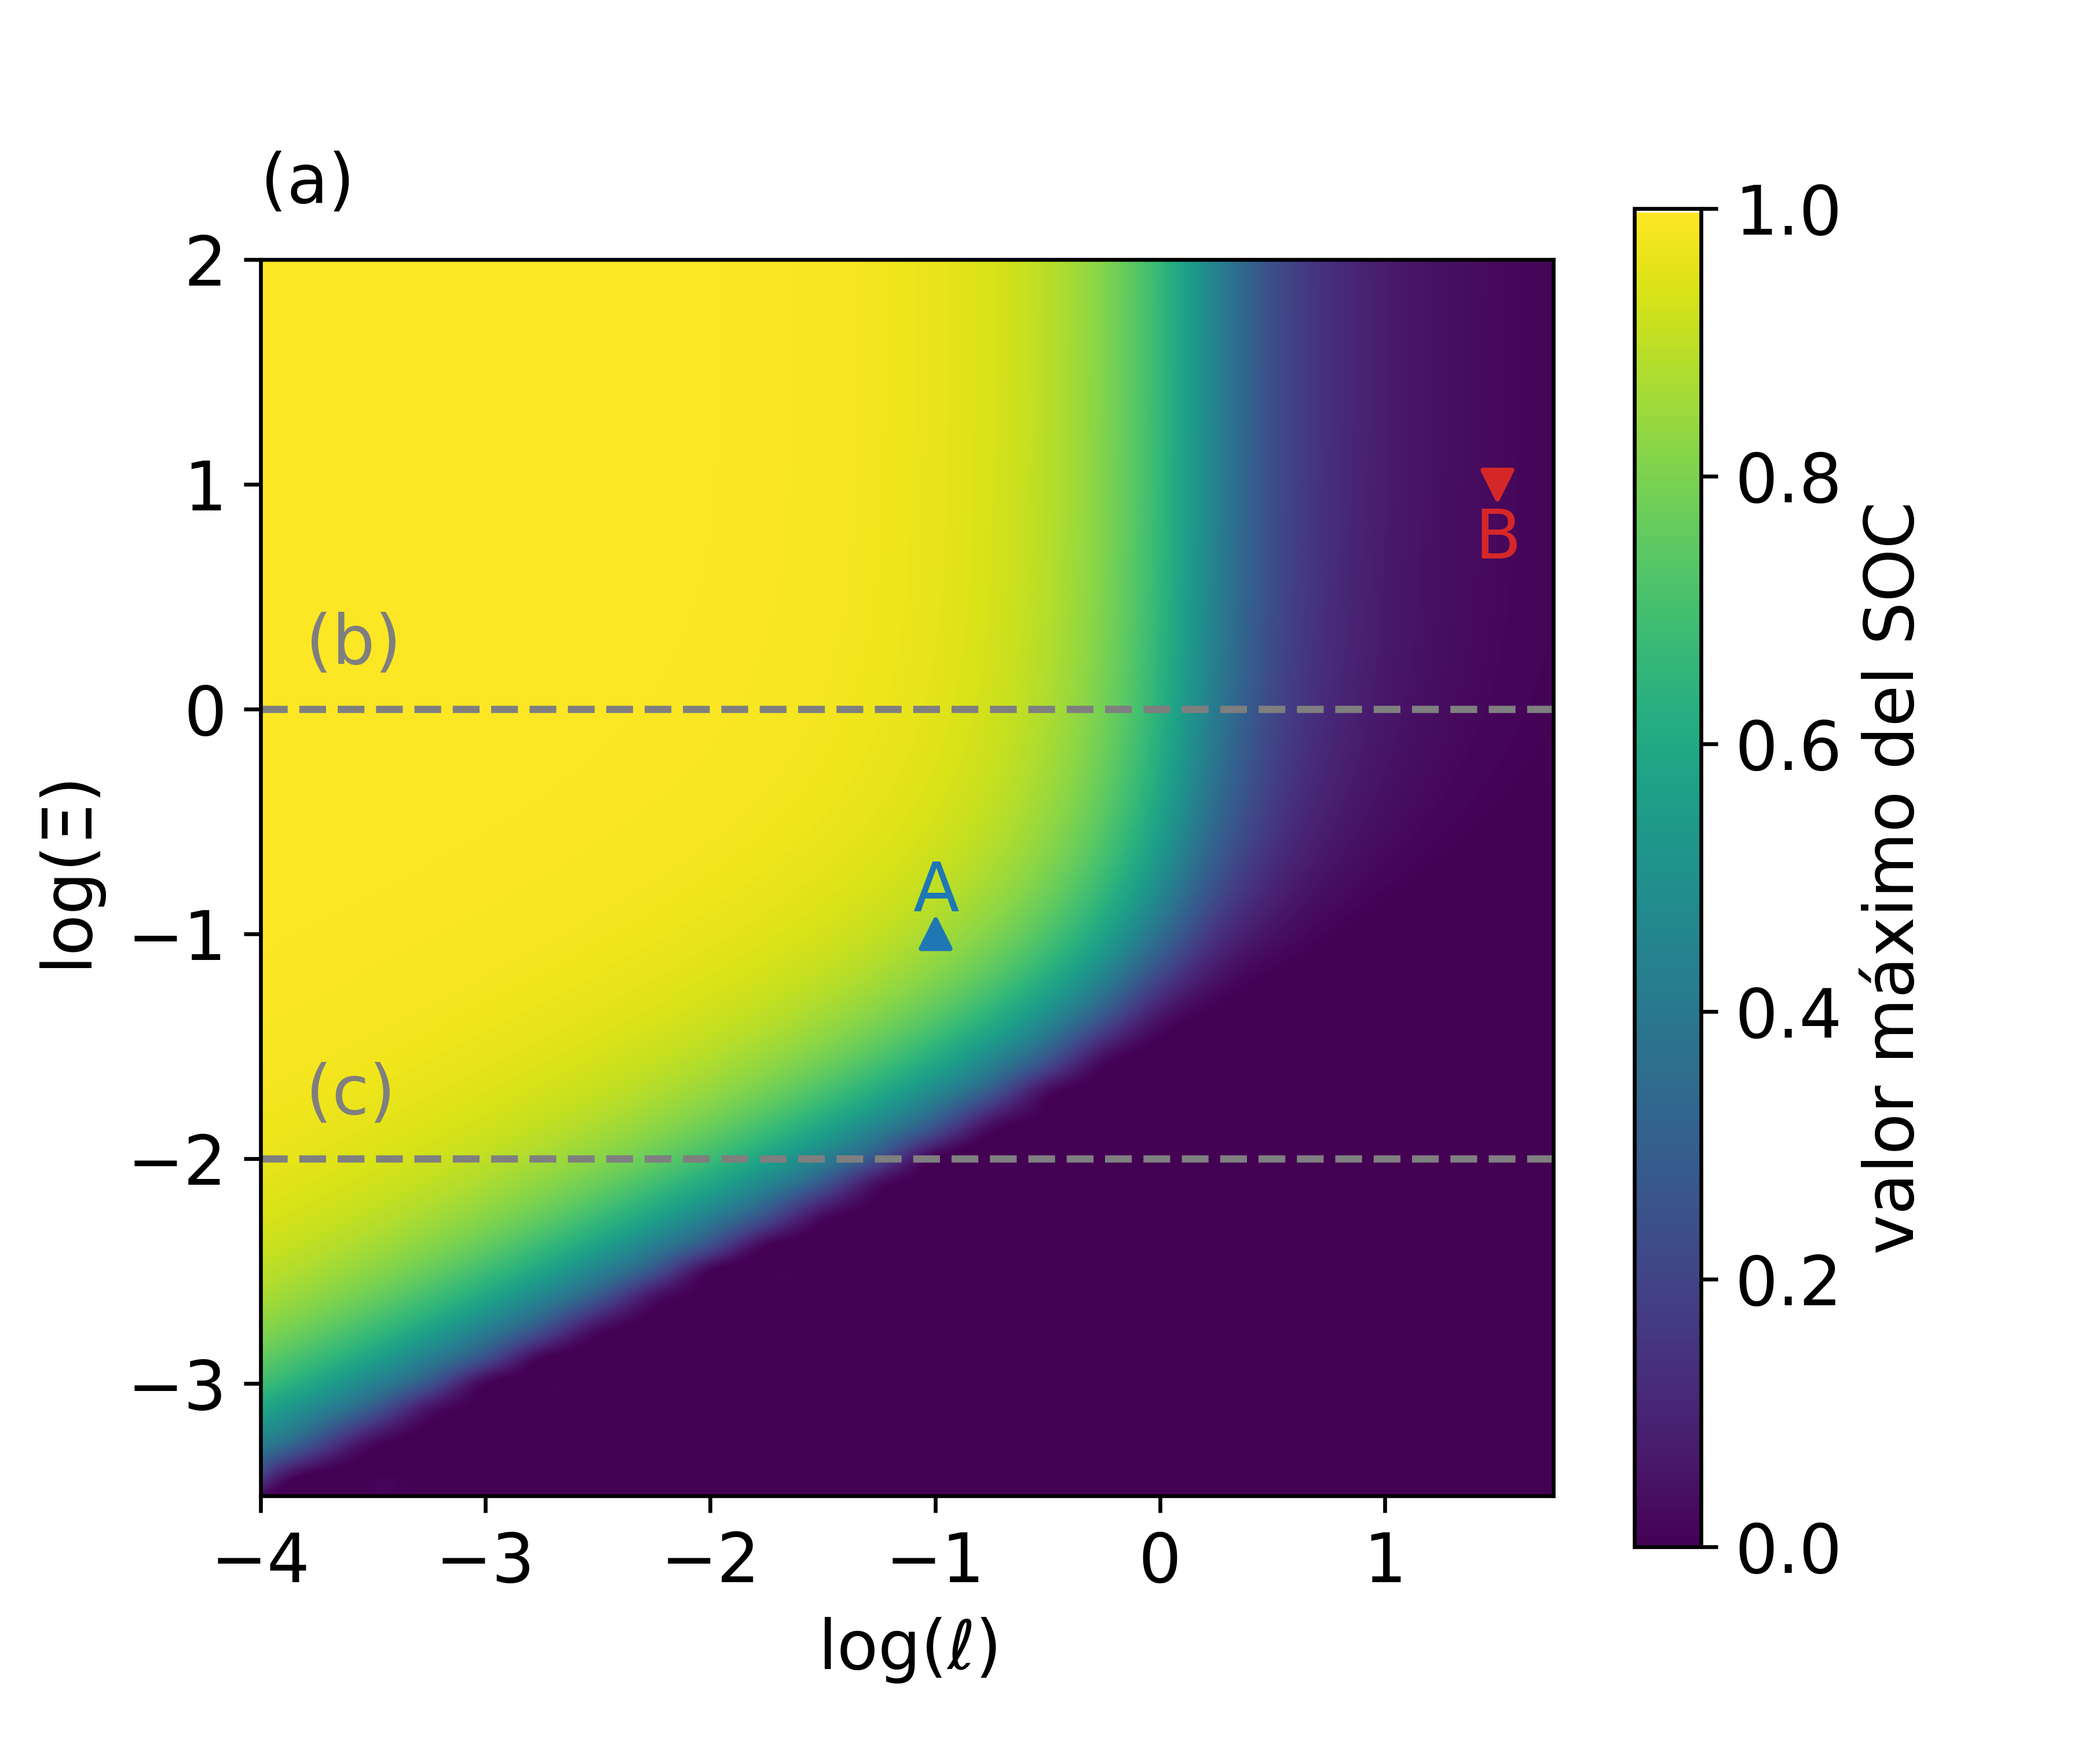
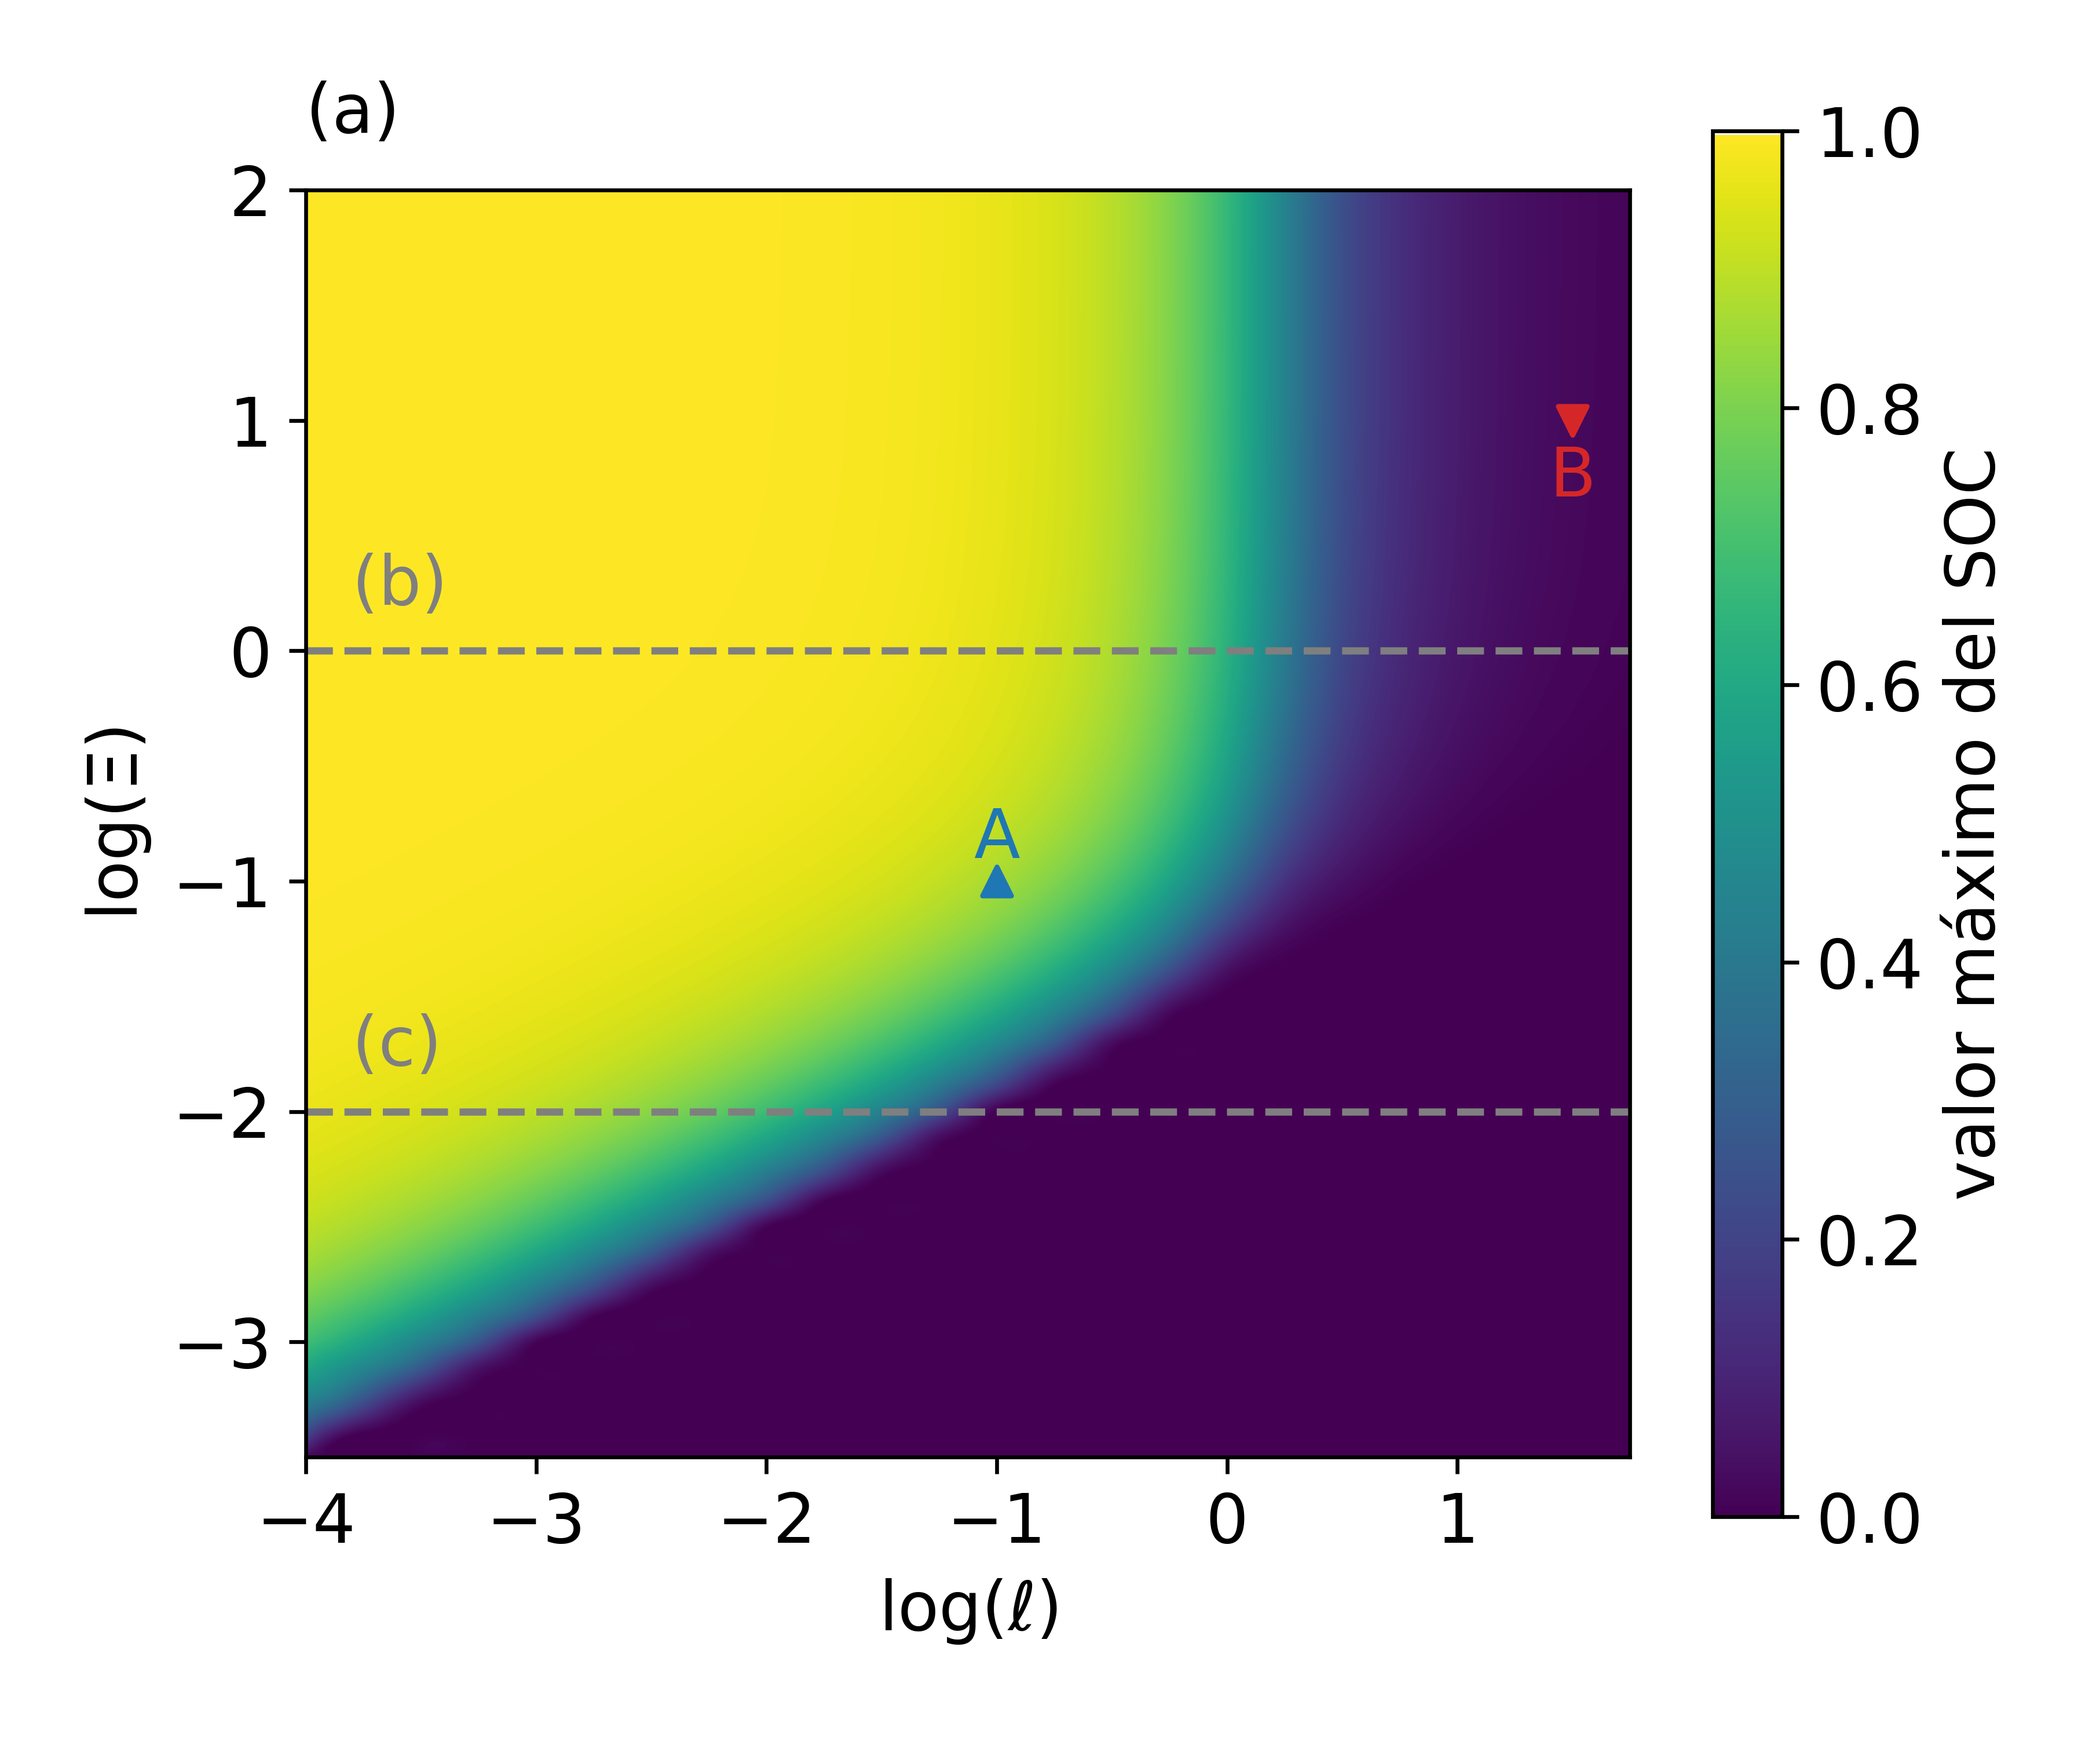
FC heuristic intro py

diff --git a/src/FastCharging/un/introduccion/xiafom.py b/src/FastCharging/un/introduccion/xiafom.py
@@ -4,43 +4,47 @@
 # Copyright (c) 2024, Francisco Fernandez
 # License: CC BY-SA 4.0
 #   https://github.com/fernandezfran/thesis/blob/main/LICENSE
-import galpynostatic
 import matplotlib.pyplot as plt
-import matplotlib.cm as cm
 import numpy as np
 import pandas as pd
-import scipy.stats
 
-plt.rcParams.update({'font.size': 12})
+plt.rcParams.update({"font.size": 12})
 
-df = pd.read_csv("data/experimental_data.csv")
+dataset = pd.read_csv("datasets/experimental_data.csv")
 
-df["d_mean_micro"] = df["particle_size_micro"].str.split("-").apply(
+dataset["d_mean_micro"] = dataset["particle_size_micro"].str.split("-").apply(
     lambda x: np.mean([float(i) for i in x])
     if isinstance(x, list)
     else np.nan
 )
 
-df["d_mean_micro"] = df.groupby(
+dataset["d_mean_micro"] = dataset.groupby(
     "Material", group_keys=False
 )["d_mean_micro"].apply(lambda x: x.fillna(x.mean()))
 
-df["dcoeff_midpoint_cm2s"] = df["dcoeff_cm2s"].str.split(" to ").apply(
-    #lambda x: scipy.stats.gmean([float(i) for i in x])
+dataset["dcoeff_midpoint_cm2s"] = dataset["dcoeff_cm2s"].str.split(" to ").apply(
     lambda x: np.mean([float(i) for i in x])
 )
 
 systems = ("LCO", "LMO", "LTO", "LFP", "Ternarios", "Grafito")
 
-marker, color, socs, opss, taus = {}, {}, {}, {}, {}
-for sys, m, c in zip(systems, ("s", "o", "D", "^", "v", "<"), (None, "red", "pink", "blue", "green", "orange")):
+marker, color = {}, {}
+for sys, m, c in zip(
+    systems,
+    ("s", "o", "D", "^", "v", "<"),
+    (None, "red", "pink", "blue", "green", "orange"),
+):
     marker[sys] = m
     color[sys] = f"tab:{c}" if c is not None else "k"
 
 fig, ax = plt.subplots()
 
 xvalues = np.logspace(-20, -8)
-for tau, x, y in zip(np.logspace(7, -1, num=5), [0.54, 0.72, 0.9, 0.93, 0.93], [0.95, 0.95, 0.95, 0.77, 0.56]):
+for tau, x, y in zip(
+    np.logspace(7, -1, num=5),
+    [0.54, 0.72, 0.9, 0.93, 0.93],
+    [0.95, 0.95, 0.95, 0.77, 0.56],
+):
     ax.plot(xvalues, tau * xvalues, color="tab:gray", linestyle="dashed", linewidth=1)
     exp = np.log10(tau)
     txt = fr"10$^{exp:.0f}$" if exp > 0 else f"{tau:.1f}"
@@ -51,7 +55,16 @@ ax.text(0.68, 0.12, r"carga más", c="tab:gray", transform=ax.transAxes)
 ax.text(0.68, 0.07, r"rápida de Xia", c="tab:gray", transform=ax.transAxes)
 ax.text(0.68, 0.02, r"et al.", c="tab:gray", transform=ax.transAxes)
 
-ax.arrow(0.76, 0.33, 0.1, -0.1, width=0.005, head_width=0.02, color="tab:gray", transform=ax.transAxes)
+ax.arrow(
+    0.76,
+    0.33,
+    0.1,
+    -0.1,
+    width=0.005,
+    head_width=0.02,
+    color="tab:gray",
+    transform=ax.transAxes,
+)
 
 ax.set_xlim((7e-20, 1e-8))
 ax.set_xlabel(r"Coeficiente de difusión $D$ [m$^2$/s]")
@@ -61,17 +74,18 @@ ax.set_ylim((1e-15, 1e-6))
 ax.set_ylabel(r"Tamaño geométrico al cuadrado $d^2$ [$m^2$]")
 ax.set_yscale("log")
 
-for sys, dcoeff, d in zip(df["Material"], df["dcoeff_midpoint_cm2s"], df["d_mean_micro"]):
+for sys, dcoeff, d in zip(
+    dataset["Material"], dataset["dcoeff_midpoint_cm2s"], dataset["d_mean_micro"]
+):
     ax.scatter(
         1e-4 * dcoeff,
-        (1e-6 * d)**2,
+        (1e-6 * d) ** 2,
         marker=marker[sys],
         color=color[sys],
         edgecolor="k",
     )
 
 for sys in systems:
-    print(sys)
     ax.scatter(0, 0, color=color[sys], marker=marker[sys], label=sys, edgecolor="k")
 ax.legend(frameon=False)
 

diff --git a/src/FastCharging/un/introduccion/plot.py b/src/FastCharging/un/introduccion/plot.py
@@ -10,36 +10,35 @@ import itertools as it
 import matplotlib.pyplot as plt
 import numpy as np
 
-plt.rcParams.update({'font.size': 16})
+plt.rcParams.update({"font.size": 16})
 
-chi_values = (0.01, 1)
-l_values = (0.0001, 0.001, 0.01, 0.1, 1, 10)
-chill = it.product(chi_values, l_values)
+xi_values = (0.01, 1)
+ell_values = (0.0001, 0.001, 0.01, 0.1, 1, 10)
+chill = it.product(xi_values, ell_values)
 
-files = os.popen("ls -l data/*.dat | awk '{print $9}'").read().split()
+files = os.popen("ls -l datasets/*.dat | awk '{print $9}'").read().split()
 
 fig, ax = plt.subplots(nrows=2, ncols=1, sharex=True, figsize=(9.5, 6))
 
-for file, (chi, l) in zip(files, chill):
-    data = np.loadtxt(file, dtype=np.float32, skiprows=1, unpack=True)
-    x, potential = data[0], data[2]
+for i, (file, (xi, ell)) in enumerate(zip(files, chill)):
+    dataset = np.loadtxt(file, dtype=np.float32, skiprows=1, unpack=True)
+    x, potential = dataset[0], dataset[2]
+    j = 0 if i < 6 else 1
 
-    ax[chi_values[::-1].index(chi)].plot(x, potential, label=f"{np.log10(l)}", zorder=1)
-    ax[chi_values[::-1].index(chi)].scatter(x[-1], -0.15, s=150, marker="^", color="k", zorder=2)
+    ax[j].plot(x, potential, label=f"{np.log10(ell)}", zorder=1)
+    ax[j].scatter(x[-1], -0.15, s=150, marker="^", color="k", zorder=2)
 
-for a, chi, bc in zip(ax, chi_values[::-1], ["(b)", "(c)"]):
+for a, chi, bc in zip(ax, xi_values[::-1], ["(b)", "(c)"]):
     a.text(0.025, 0.12, bc)
-    a.text(0.78, 0.11, rf"log($\Xi$) = {np.log10(chi)}")
+    a.text(0.78, 0.11, rf"log($\Xi$) = {np.log10(xi)}")
     a.set_ylabel("Potencial (V)")
     a.set_ylim((-0.15, 0.15))
-
     a.set_yticks([-0.1, 0.0, 0.1])
 
 ax[1].set_xlabel("SOC")
 ax[1].set_xlim((0, 1))
 
-ax[0].legend(title=r"log($l$)", loc='center left', bbox_to_anchor=(1, 0.0))
+ax[0].legend(title=r"log($\ell$)", loc="center left", bbox_to_anchor=(1, 0.0))
 
 fig.subplots_adjust(wspace=0, hspace=0, right=0.85)
-# fig.tight_layout()
 fig.savefig("plot.png", dpi=200)

diff --git a/src/FastCharging/un/introduccion/diagnosis-map.py b/src/FastCharging/un/introduccion/diagnosis-map.py
@@ -7,12 +7,13 @@
 import galpynostatic
 import matplotlib.pyplot as plt
 
-plt.rcParams.update({'font.size': 14})
+plt.rcParams.update({"font.size": 14})
+
+fig, ax = plt.subplots(figsize=(6, 5))
 
 greg = galpynostatic.model.GalvanostaticRegressor()
 greg.fit([[4.0], [5.0]], [0.8, 0.9])
 
-fig, ax = plt.subplots(figsize=(6, 5))
 ax = greg.plot.render_map(ax=ax, clb_label="valor máximo del SOC")
 
 ax.plot([-4, 1.75], [0, 0], ls="--", color="tab:gray")
@@ -29,4 +30,5 @@ ax.text(1.4, 0.67, "B", color="tab:red")
 
 ax.text(-4., 2.25, "(a)")
 
+fig.tight_layout()
 plt.savefig("diagnosis-map.png", dpi=600)
